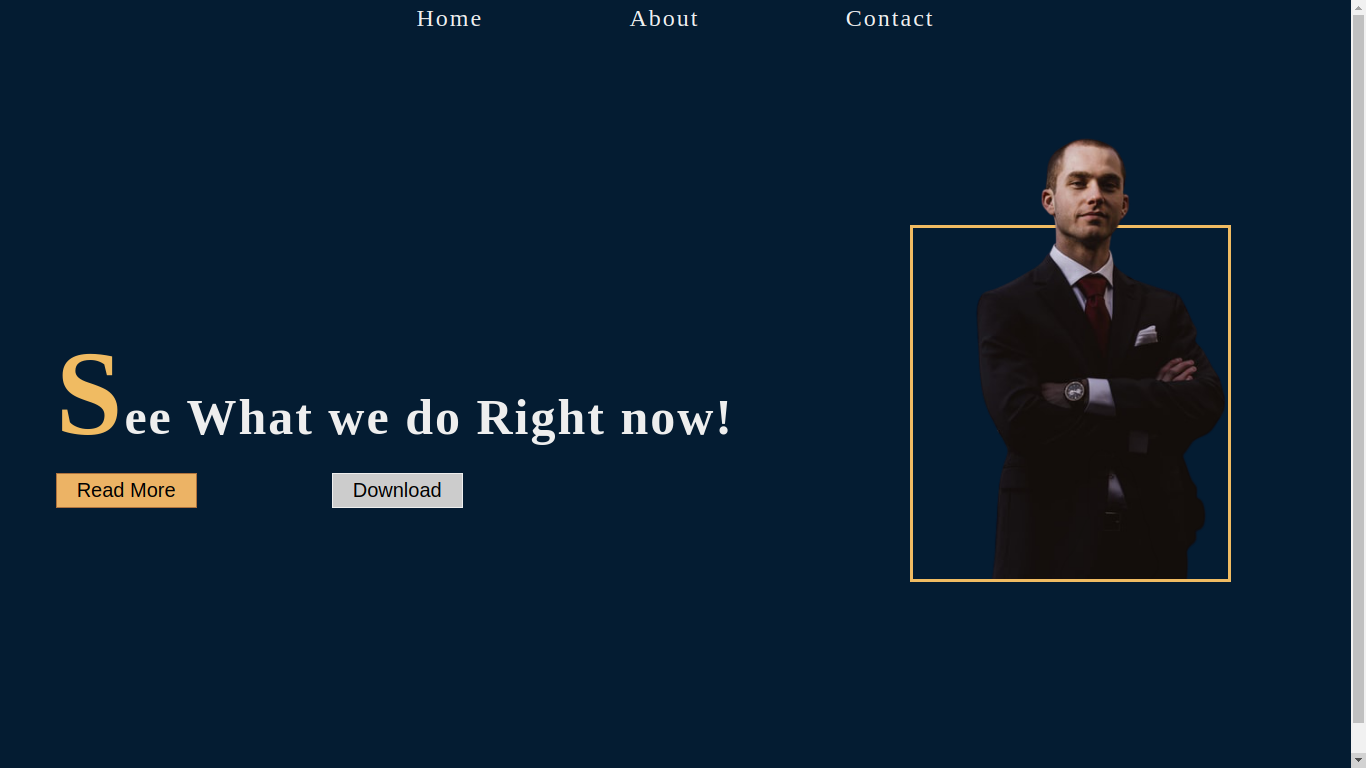
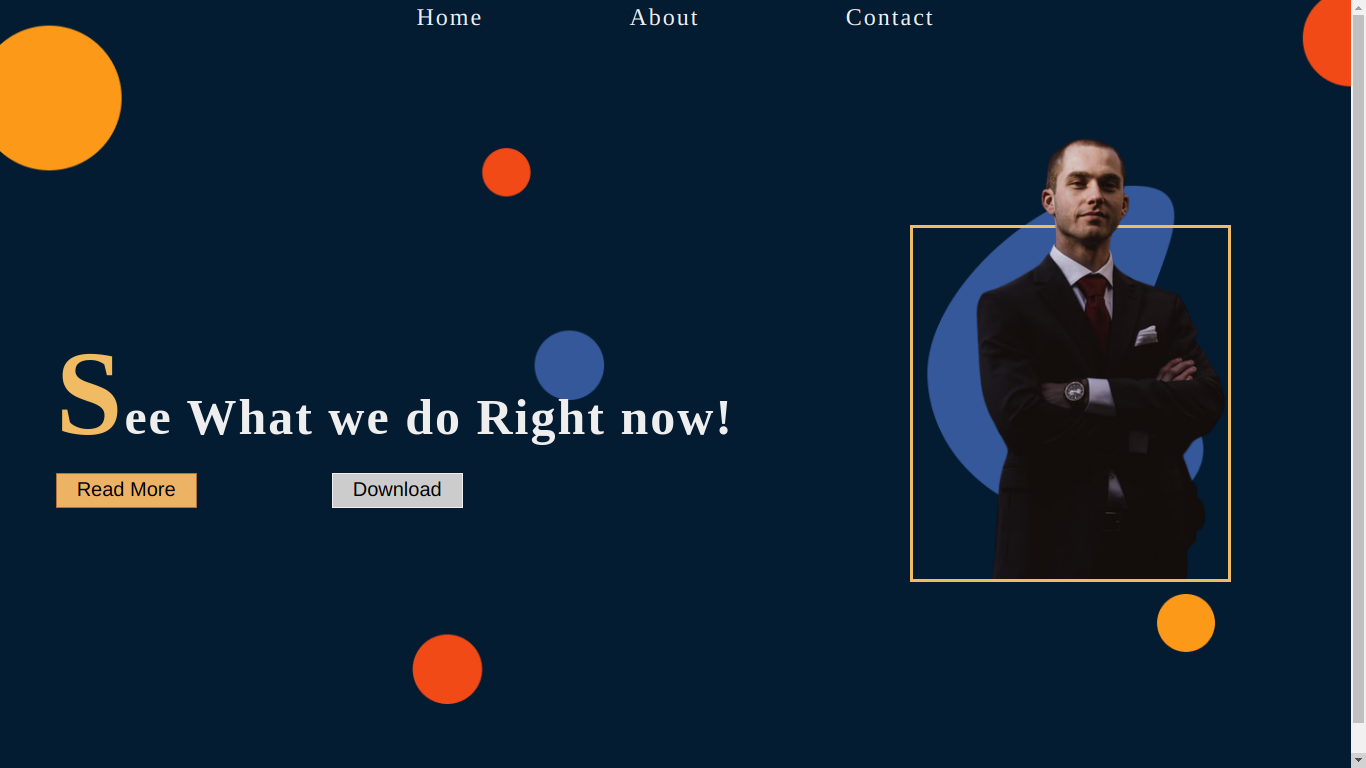
add a background image

diff --git a/style.css b/style.css
@@ -10,6 +10,10 @@ li {
 
 html,body {
   background: #041C32;
+  background-image: url('./Group 2.png');
+  background-position: center;
+  background-repeat: no-repeat;
+  background-size:100%;
   max-width:100vw;
 }
 
@@ -139,7 +143,7 @@ img {
   background-color:#eee;
 }
 
-@media only screen and (max-width: 600px) {
+@media only screen and (max-width: 700px) {
   header nav ul {
   width:100%;
 }
